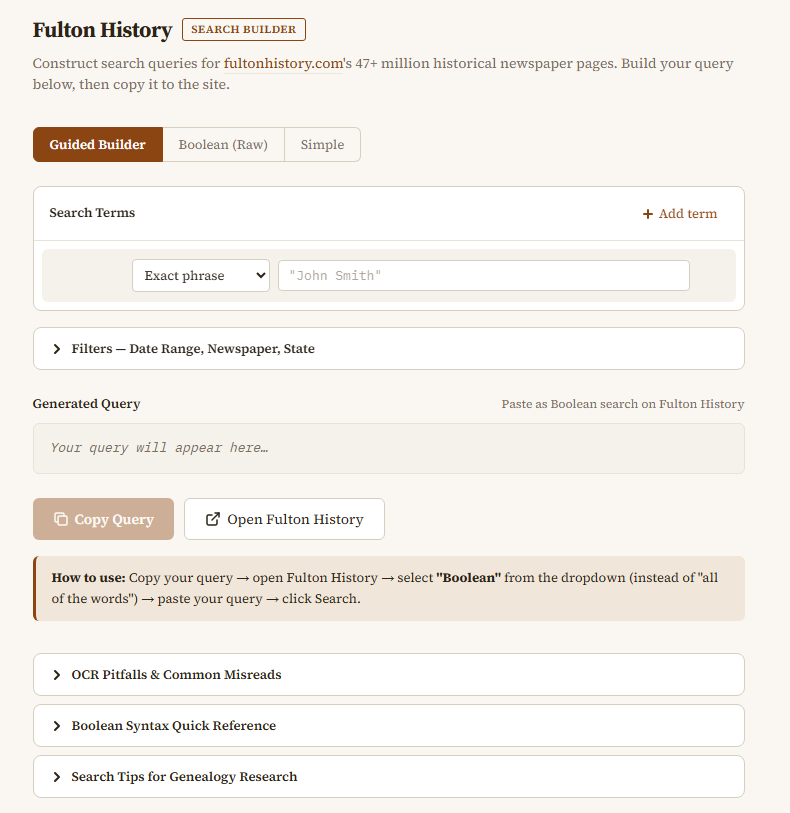
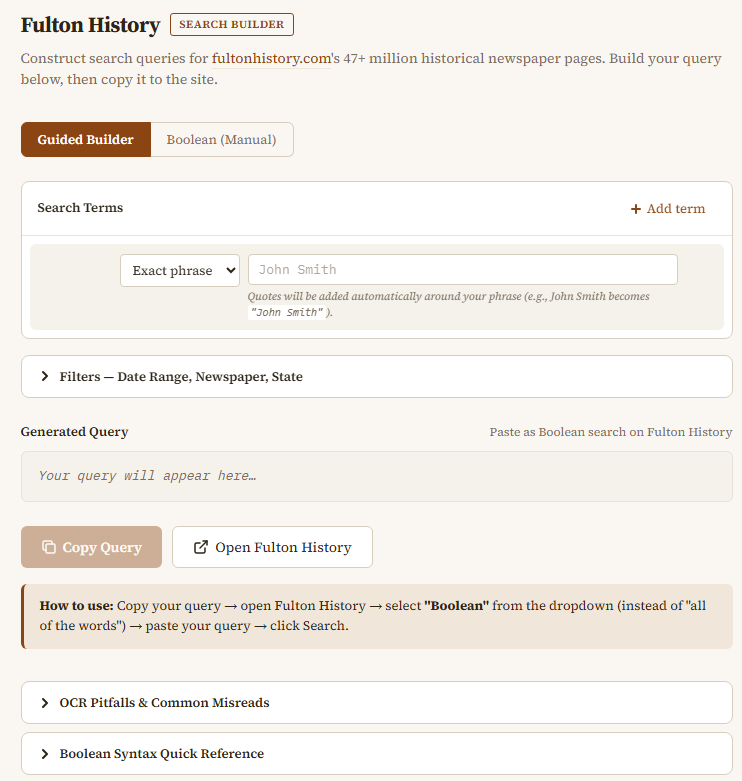
fix fultonsearch details

diff --git a/src/data/projects.ts b/src/data/projects.ts
@@ -10,13 +10,13 @@ export const projects: Project[] = [
     medium: "webapp",
     mediumLabel: "Web App",
     date: "2025",
-    body: `<p>FultonHistory.com is an invaluable resource for genealogy researchers, but its native search interface presents significant usability challenges. This project reimagines the search experience with an intuitive, modern interface.</p>
+    body: `<p>FultonHistory.com is an invaluable resource for genealogy researchers, but its native boolean search interface can be challenging to use. This tool provides an intuitive query builder that generates properly formatted search queries.</p>
       <h3>The Problem</h3>
-      <p>Researchers spend excessive time wrestling with the search mechanics rather than focusing on their actual research. The original interface lacks filtering, saved searches, and result previewing.</p>
+      <p>Researchers need to understand boolean operators, proximity syntax, and filename filtering to effectively search the Fulton archive. The learning curve prevents many users from accessing the full power of the search engine.</p>
       <h3>The Solution</h3>
-      <p>A streamlined search interface with advanced filtering by date range, location, and publication, inline result previews, and the ability to save and organize search sessions for ongoing research projects.</p>`,
-    tech: ["HTML/CSS/JS", "Python", "Search API", "Responsive Design"],
-    image: "/images/fultonsearch.png"
+      <p>A guided query builder with separate fields for each search term, visual proximity configuration, optional date/location filters, and OCR character swap suggestions. The tool generates the complex boolean query automatically, which users can copy and paste into Fulton History's search box.</p>`,
+    tech: ["React", "TypeScript", "Claude AI"],
+    image: "/images/fultonsearch.png?v=2"
   },
   {
     id: 2,
